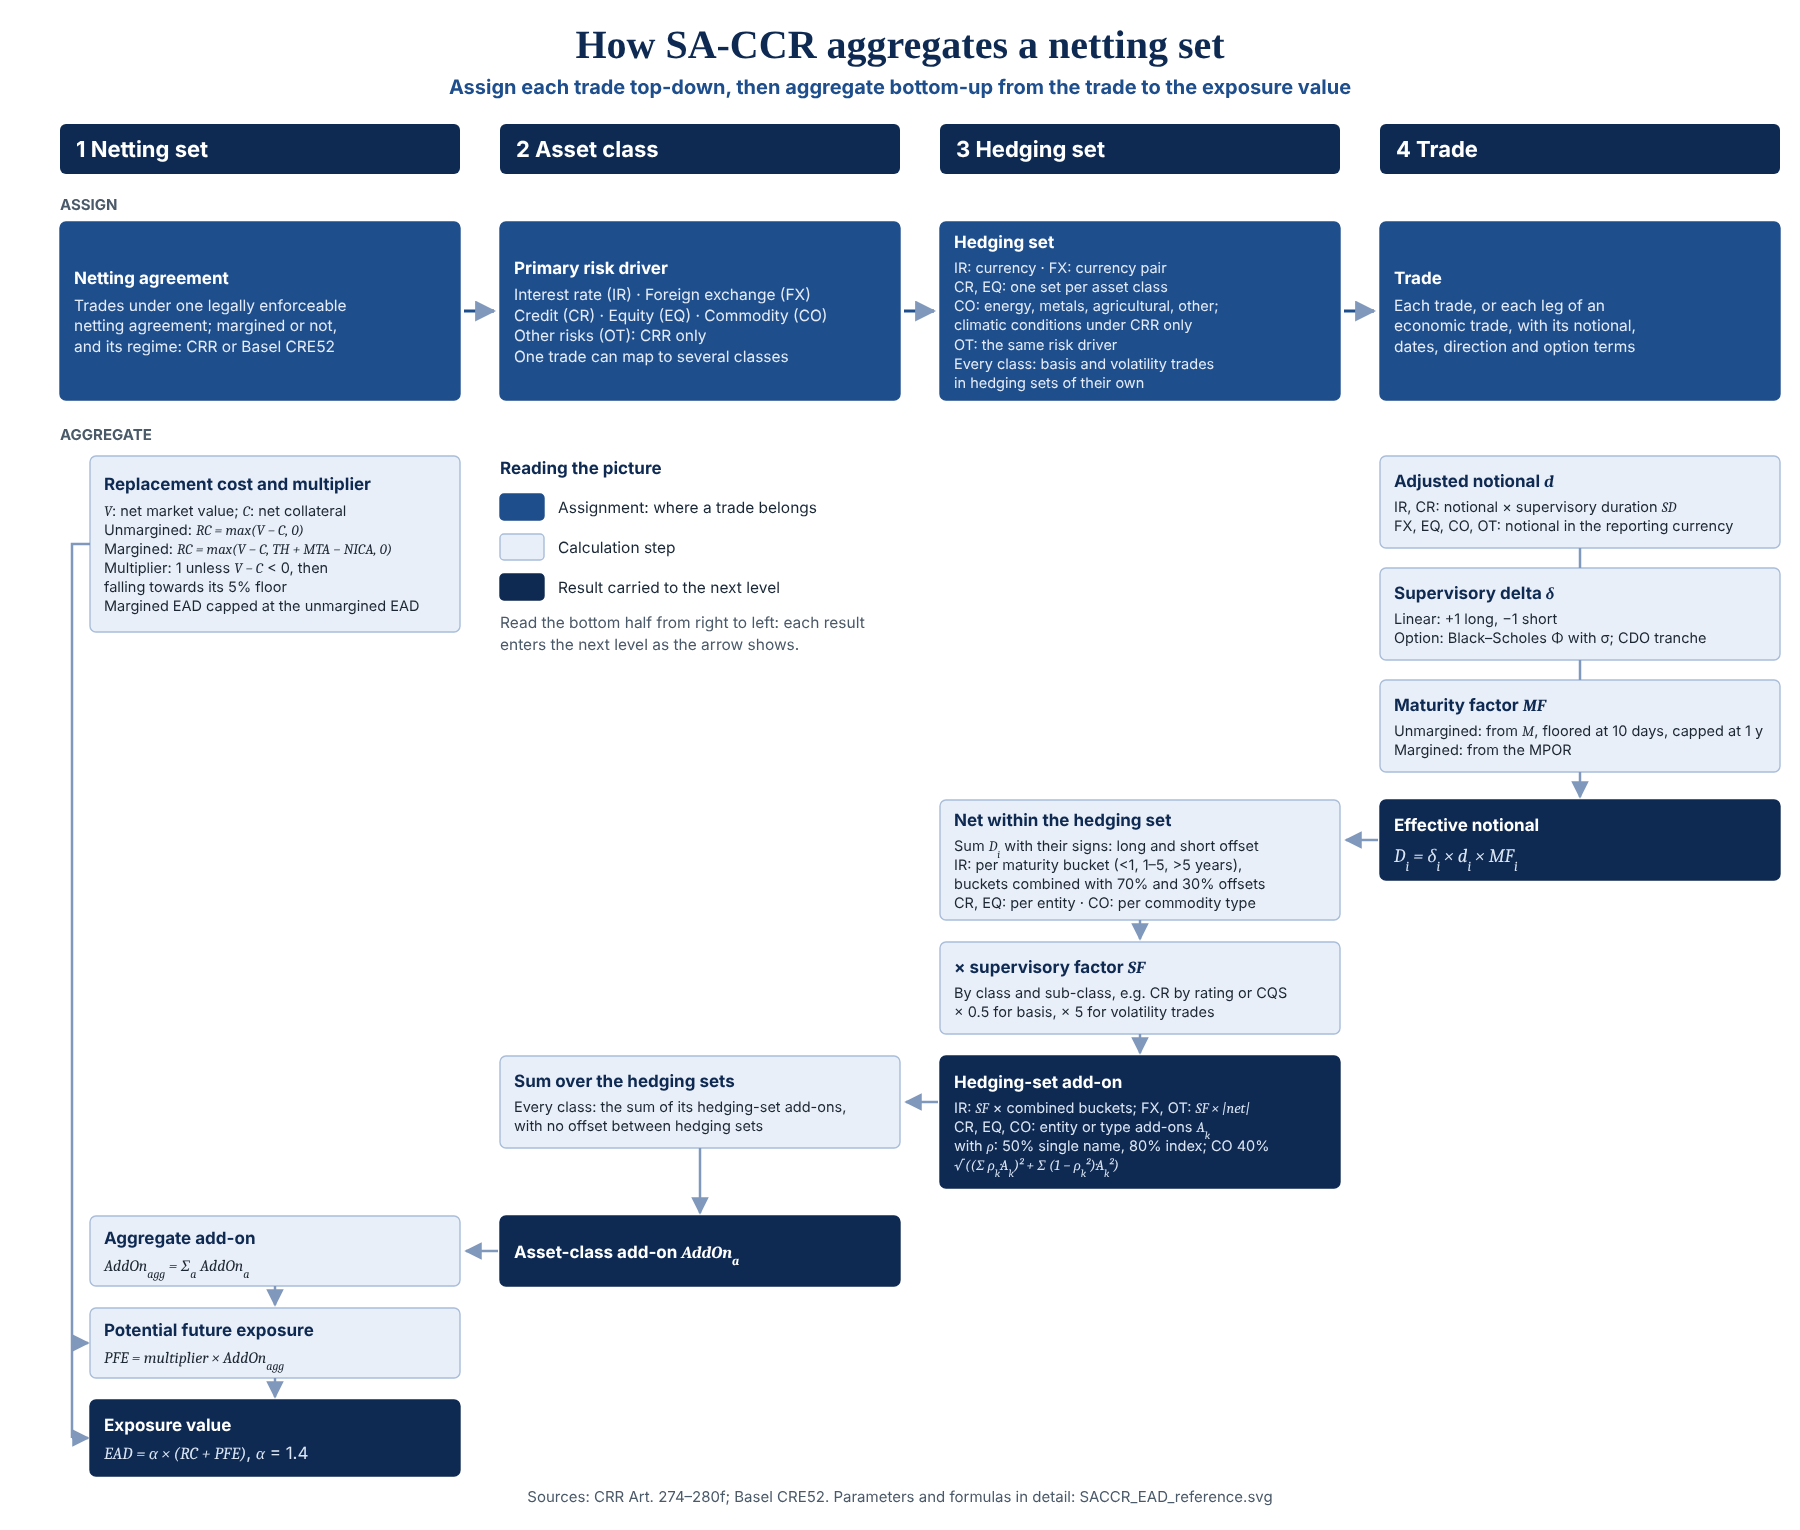
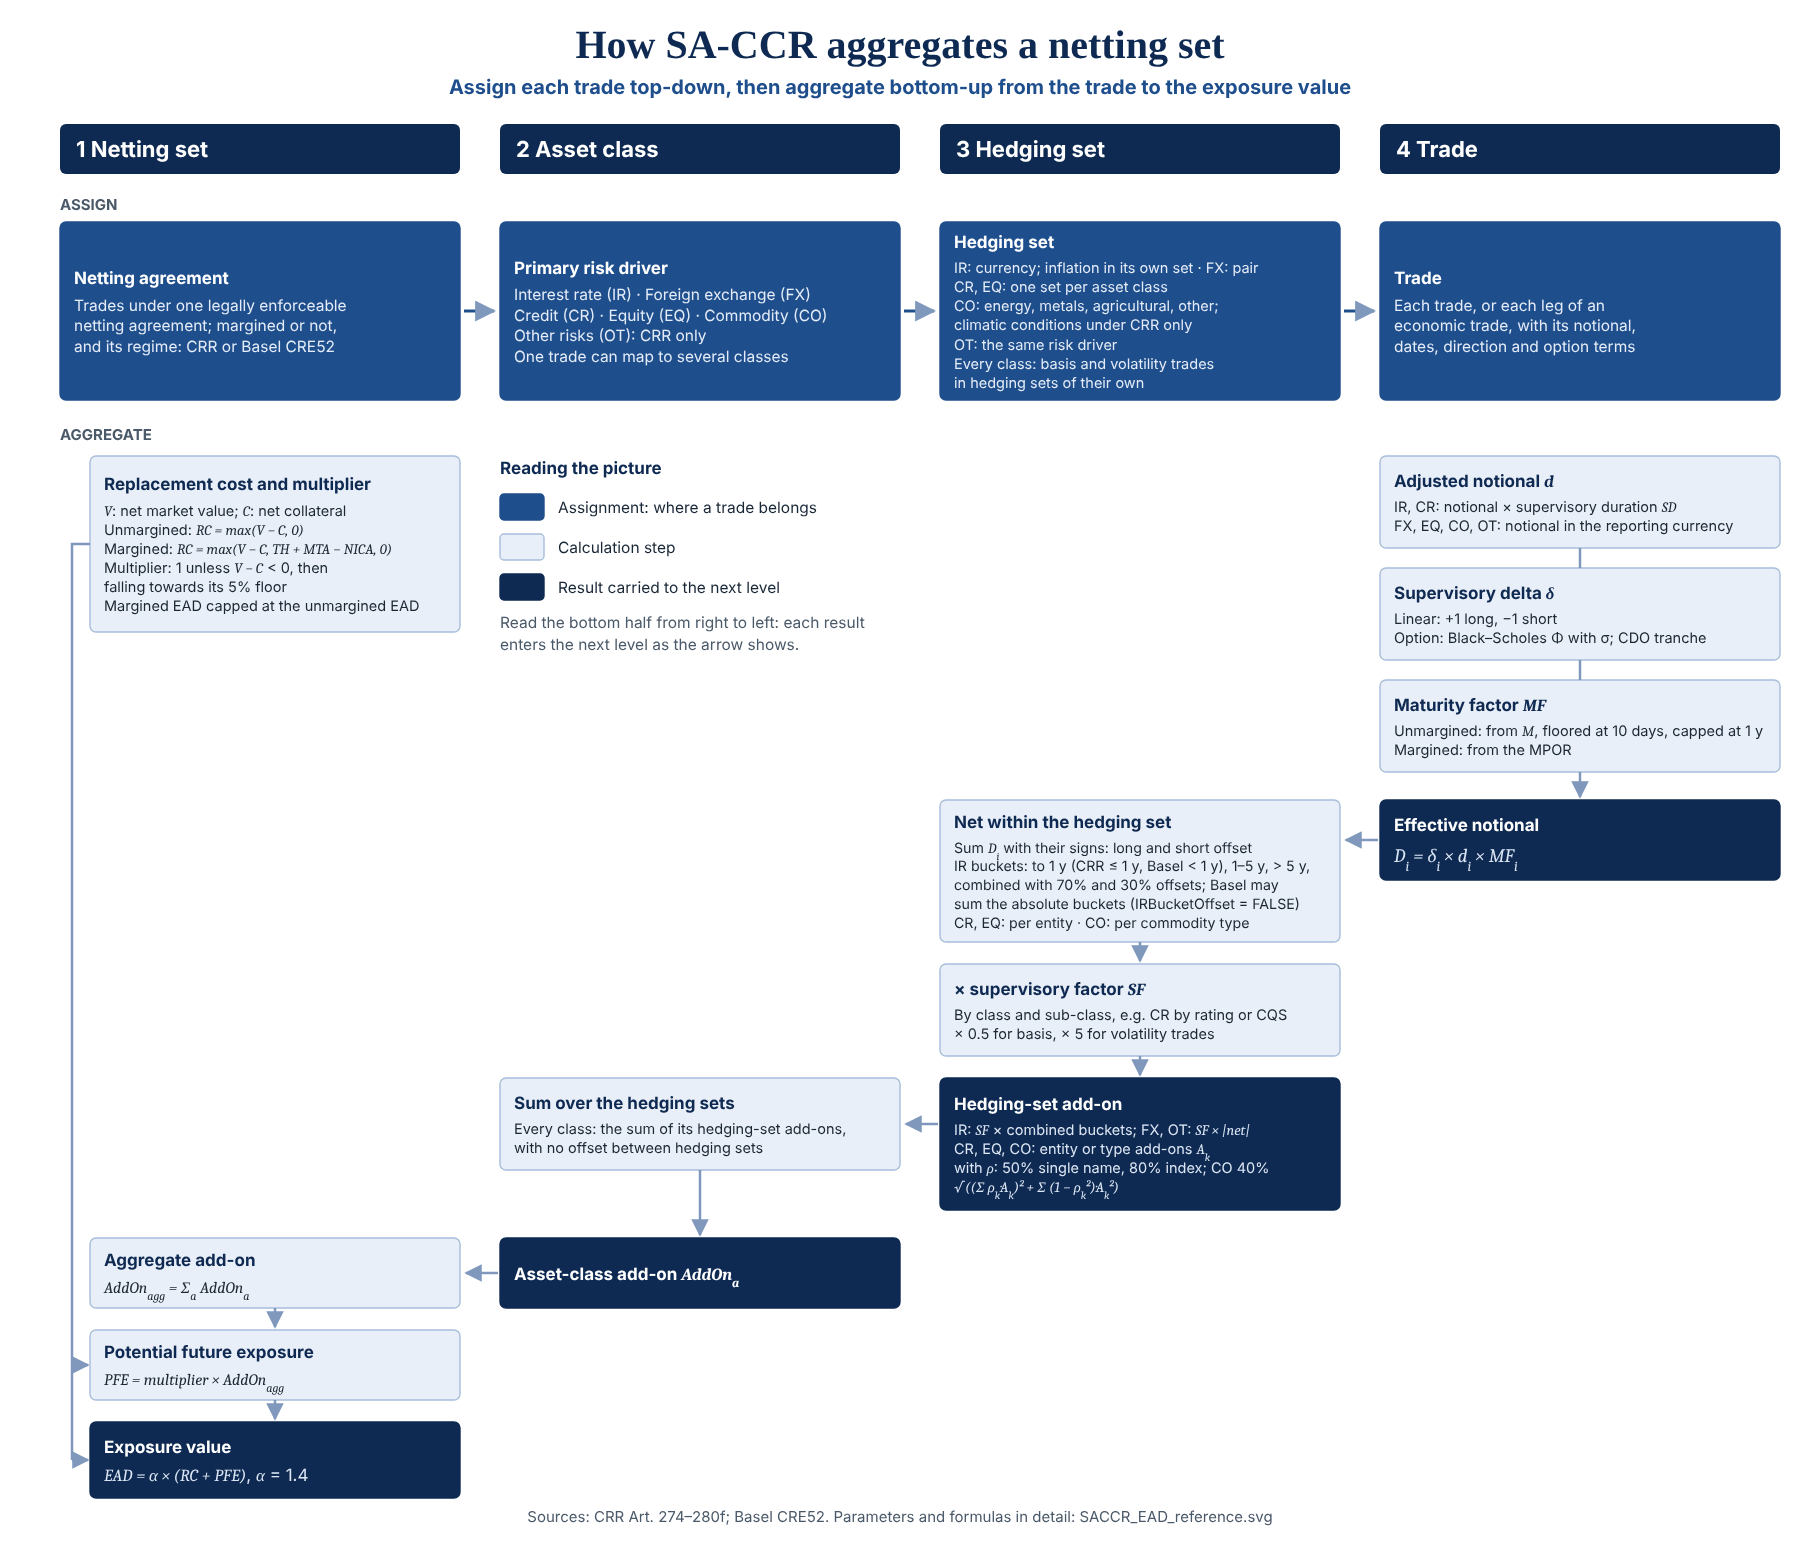
Show the IR bucket rules by regime and fix the aggregation alt text
Review findings:
- The IR bucket boundary differs by regime: an end date of exactly one
  year is in bucket 1 under CRR and bucket 2 under Basel; the picture
  now says CRR <= 1 y, Basel < 1 y.
- Under Basel, IRBucketOffset = FALSE sums the absolute bucket values
  instead of the 70%/30% offsets; the picture now names it.
- Inflation risk factors form IR hedging sets of their own.
- The README alt text still described the old hierarchy; it now says
  that entities and commodity types are combined with their correlations
  within each hedging set and that every asset class sums its
  hedging-set add-ons.

SACCR_aggregation is now 1800 x 1550 px; PNG re-rendered.
tools/check.py passes.

diff --git a/README.md b/README.md
@@ -313,7 +313,7 @@ the exposure value (select it to open it full size):
 <p align="center">
   <a href="docs/assets/SACCR_aggregation.svg">
     <img width="100%"
-         alt="How SA-CCR aggregates a netting set: trades are assigned to a netting set, an asset class (IR, FX, CR, EQ, CO and, under CRR only, OT) and a hedging set; each trade's adjusted notional, supervisory delta and maturity factor give its effective notional, which is netted within the hedging set and multiplied by the supervisory factor; hedging-set add-ons are summed, or for credit and equity combined with correlations, into asset-class add-ons, then into the aggregate add-on, the PFE and EAD = 1.4 x (RC + PFE)"
+         alt="How SA-CCR aggregates a netting set: trades are assigned to a netting set, an asset class (IR, FX, CR, EQ, CO and, under CRR only, OT) and a hedging set; each trade's adjusted notional, supervisory delta and maturity factor give its effective notional, which is netted within the hedging set (by maturity bucket for interest rates, by entity for credit and equity, by commodity type) and multiplied by the supervisory factor; within each hedging set, credit and equity entities and commodity types are combined with their correlations; every asset class sums its hedging-set add-ons, and the asset classes add up to the aggregate add-on, the PFE and EAD = 1.4 x (RC + PFE)"
          src="docs/assets/SACCR_aggregation.svg">
   </a>
 </p>

diff --git a/docs/assets/README.md b/docs/assets/README.md
@@ -166,7 +166,7 @@ source; the card holds the parameters and the full formulas.
   The value path in `SACCR_RC_PFE.svg` is illustrative, not data.
 - **Rendering:** the SVGs are the source. `SACCR_aggregation.png`,
   `SACCR_EAD_tree.png` and `SACCR_RC_PFE.png`, used by the Wiki, are rendered
-  from them at their own size (1800 x 1530, 1820 x 1505 and 1800 x 1060 px)
+  from them at their own size (1800 x 1550, 1820 x 1505 and 1800 x 1060 px)
   with headless Chromium at a device scale factor of 1, then quantized to 256
   colours as the screenshots above. Render them again whenever an SVG
   changes, and update the pictures when a formula or a supervisory parameter
